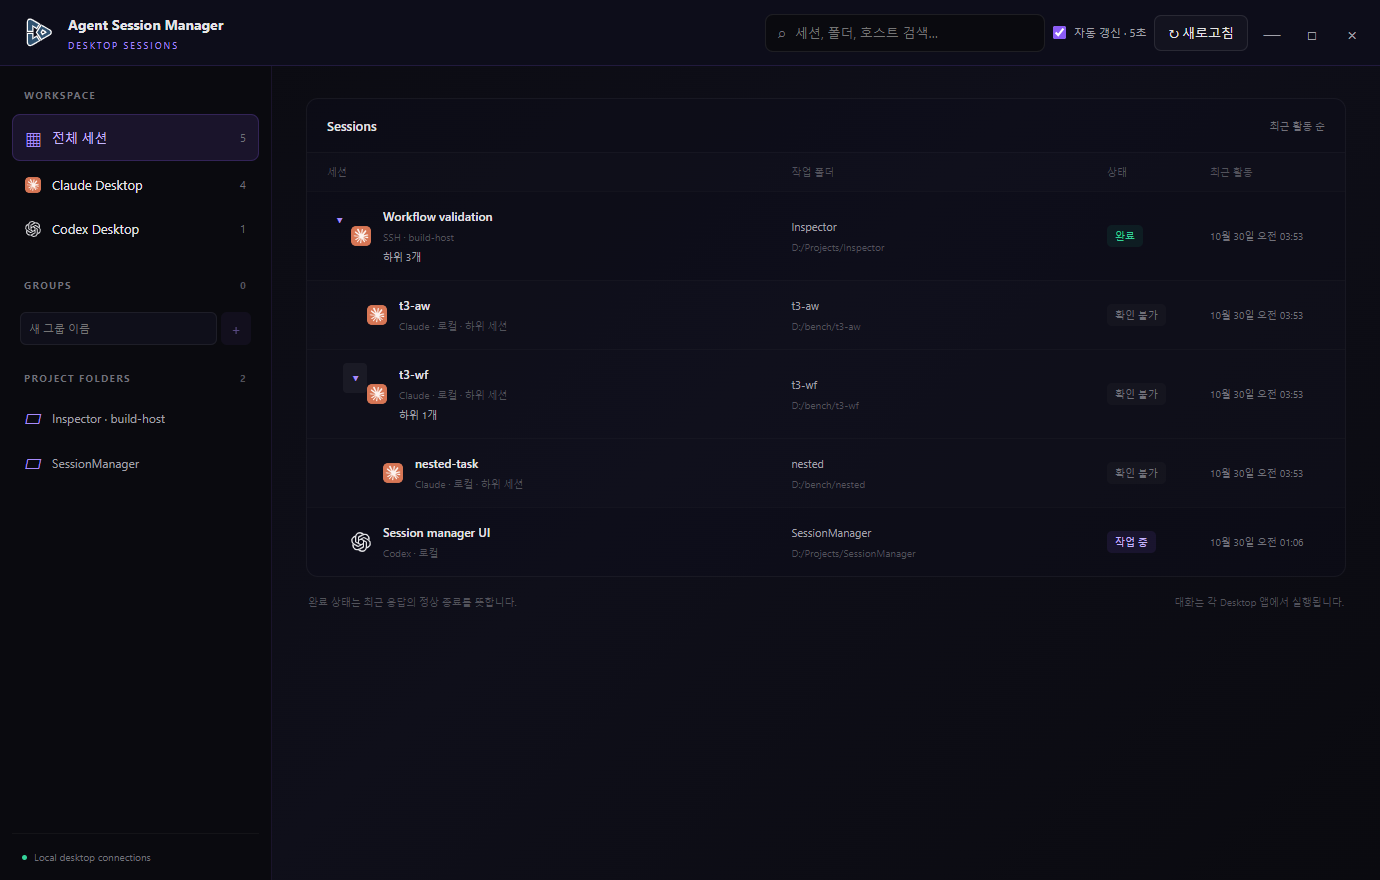
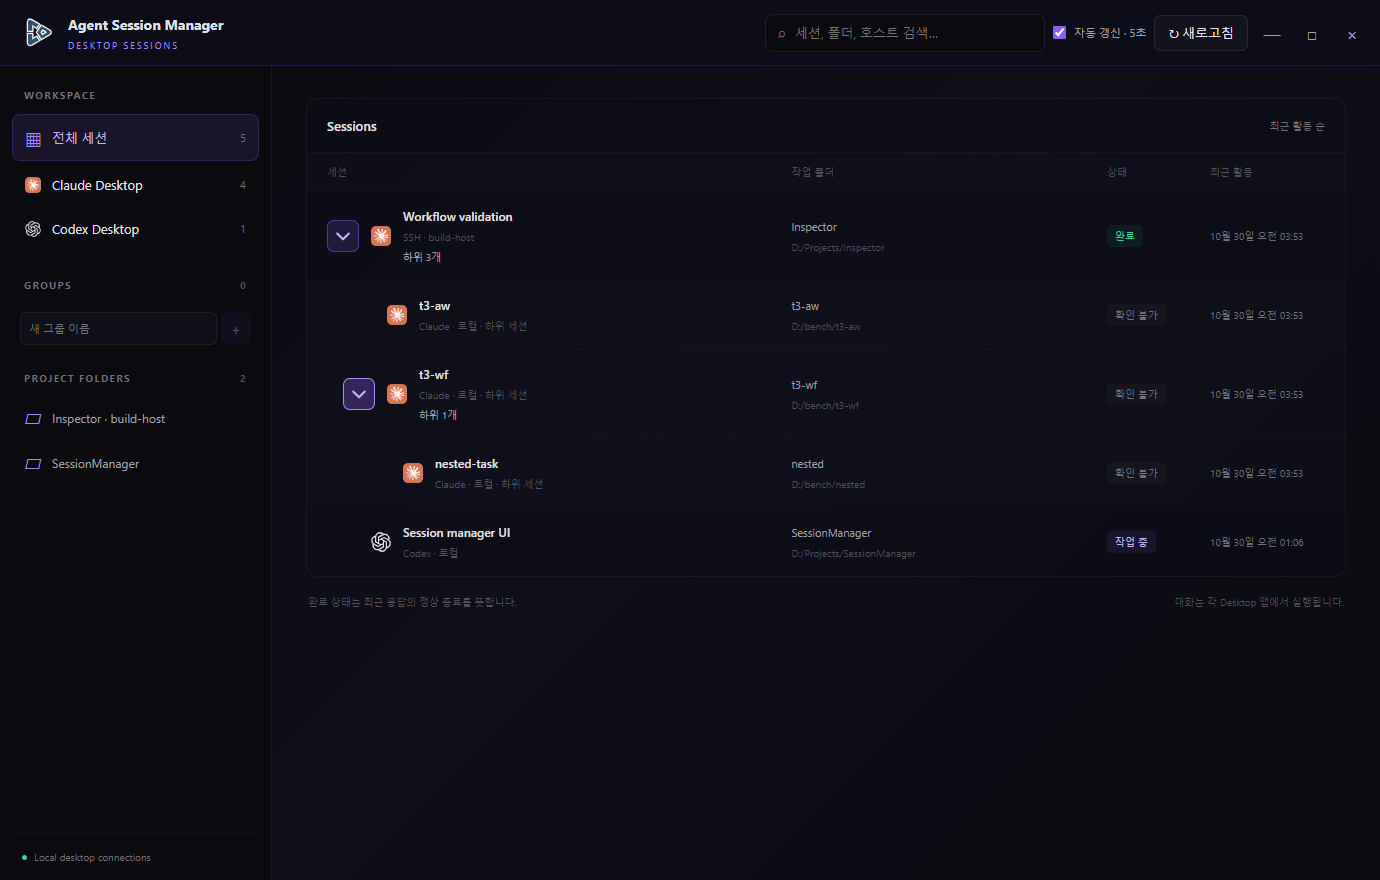
Improve child session expand button visibility and alignment

diff --git a/frontend/src/DesktopApp.svelte b/frontend/src/DesktopApp.svelte
@@ -262,7 +262,7 @@
               {@const workingChildren = row.descendants.filter(child => activity(child, now).state === 'working').length}
               <div class="session-entry" class:child-entry={row.depth > 0} data-session-key={session.key} style={`--tree-indent:${Math.min(row.depth, 4) * 16}px`}>
                 {#if row.descendants.length}
-                  <button class="tree-toggle" aria-label={`${row.expanded ? '하위 세션 접기' : '하위 세션 펼치기'}: ${session.title}`} aria-expanded={row.expanded} on:click={() => toggleChildren(session.key, row.automatic)}>{row.expanded ? '▾' : '▸'}</button>
+                  <button class="tree-toggle" aria-label={`${row.expanded ? '하위 세션 접기' : '하위 세션 펼치기'}: ${session.title}`} aria-expanded={row.expanded} on:click={() => toggleChildren(session.key, row.automatic)}><svg width="20" height="20" viewBox="0 0 24 24" fill="none" stroke="currentColor" stroke-width="2.5" stroke-linecap="round" stroke-linejoin="round" aria-hidden="true"><path d="m9 5 7 7-7 7" /></svg></button>
                 {/if}
                 <button class="session-row" on:click={event => { if (event.detail < 2) void openSession(session); }} on:contextmenu={event => showSessionMenu(event, session)} on:keydown={event => { if (event.key === 'ContextMenu' || (event.shiftKey && event.key === 'F10')) void showSessionMenu(event, session); }} aria-haspopup="menu" disabled={opening} title={session.title}>
                   <span class="session-title"><AgentIcon agent={session.provider} size="md" /><span><strong>{session.childName || session.title}</strong><small>{session.environment === 'ssh' ? `SSH · ${session.host}` : `${session.provider === 'codex' ? 'Codex' : 'Claude'} · 로컬`}{#if session.parentKey}{' · 하위 세션'}{/if}{#if row.node.parentUnavailable}<span class="missing-parent">{' · 부모 대화 확인 불가'}</span>{/if}</small>{#if row.descendants.length}<small class="hierarchy-summary" title="현재 필터에 포함된 하위 세션">하위 {row.descendants.length}개{#if workingChildren}<span class="descendant-working">{' · '}{workingChildren}개 작업 중</span>{/if}</small>{/if}</span></span>
@@ -301,7 +301,7 @@
   .session-panel { border:1px solid #ffffff0c; border-radius:12px; overflow:hidden; background:rgba(var(--bg-base-rgb),.42); } .panel-heading { display:flex; justify-content:space-between; align-items:center; padding:18px 20px; border-bottom:1px solid #ffffff0a; } .panel-heading h2 { font-size:13px; font-weight:600; } .panel-heading > span { font-size:10px; color:#71717a; }
   .table-heading,.session-row { display:grid; grid-template-columns:minmax(210px,1.5fr) minmax(130px,1fr) 85px 115px; gap:18px; align-items:center; } .table-heading { padding:12px 20px; color:#52525b; font-size:10px; background:#ffffff02; } .session-row { width:100%; background:none; border:0; border-top:1px solid #ffffff06; text-align:left; padding:16px 20px; } .session-row:hover { background:rgba(var(--accent-rgb),.07); } .session-title { min-width:0; display:flex; align-items:center; gap:12px; } .session-title > span { min-width:0; } .session-title strong { display:block; font-size:12px; font-weight:500; white-space:nowrap; overflow:hidden; text-overflow:ellipsis; } .session-title small,.session-path small { display:block; color:#52525b; font-size:10px; margin-top:6px; white-space:nowrap; overflow:hidden; text-overflow:ellipsis; } .session-path { min-width:0; color:#a1a1aa; font-size:11px; overflow:hidden; text-overflow:ellipsis; white-space:nowrap; } time { font-size:10px; color:#71717a; }
   .badge { display:inline-flex; justify-content:center; width:fit-content; gap:5px; font-size:10px; padding:4px 8px; border-radius:5px; background:#ffffff06; color:#71717a; white-space:nowrap; } .badge.working { background:#8b5cf61a; color:#c4b5fd; } .badge.completed { background:#10b98118; color:#34d399; } .badge.interrupted { background:#f59e0b18; color:#fbbf24; } .badge.idle { color:#a1a1aa; } .badge.error,.badge.refused { color:#fca5a5; background:#ef444418; }
-  .session-entry { position:relative; } .session-entry .session-title { padding-left:calc(24px + var(--tree-indent)); } .child-entry { background:#ffffff02; } .tree-toggle { position:absolute; z-index:1; left:calc(20px + var(--tree-indent)); top:14px; width:24px; height:30px; padding:0; border:0; border-radius:4px; color:var(--accent-light); background:none; font-size:16px; } .tree-toggle:hover { background:#ffffff0c; } .session-title .hierarchy-summary { color:#a1a1aa; } .session-title .descendant-working { color:#c4b5fd; } .missing-parent { color:#fbbf24; } .parent-link { margin-top:14px; color:#a1a1aa; font-size:12px; } .parent-link button { border:0; background:none; color:var(--accent-light); text-align:left; }
+  .session-entry { position:relative; } .session-entry .session-title { padding-left:calc(44px + var(--tree-indent)); } .child-entry { background:#ffffff02; } .tree-toggle { position:absolute; z-index:1; left:calc(20px + var(--tree-indent)); top:50%; transform:translateY(-50%); display:flex; align-items:center; justify-content:center; width:32px; height:32px; padding:0; border:1px solid rgba(var(--accent-rgb),.45); border-radius:7px; color:var(--accent-lighter); background:rgba(var(--accent-rgb),.16); } .tree-toggle:hover { background:rgba(var(--accent-rgb),.3); border-color:var(--accent-light); } .tree-toggle:focus-visible { outline:2px solid var(--accent-light); outline-offset:2px; } .tree-toggle[aria-expanded=true] svg { transform:rotate(90deg); } .session-title .hierarchy-summary { color:#a1a1aa; } .session-title .descendant-working { color:#c4b5fd; } .missing-parent { color:#fbbf24; } .parent-link { margin-top:14px; color:#a1a1aa; font-size:12px; } .parent-link button { border:0; background:none; color:var(--accent-light); text-align:left; }
   .banner { padding:12px 16px; border-radius:8px; margin-bottom:18px; font-size:12px; white-space:pre-wrap; overflow-wrap:anywhere; } .banner.error { background:#ef444413; border:1px solid #ef44442c; color:#fca5a5; } .banner.success { background:#10b98112; border:1px solid #10b98125; color:#6ee7b7; } .banner.warning { color:#fbbf24; background:#f59e0b0c; border:1px solid #f59e0b20; } .warning p { margin-top:8px; font-size:11px; }
   .back { border:0; background:none; color:#a1a1aa; font-size:12px; padding:0 0 18px; } .detail-card { padding:28px; border:1px solid rgba(var(--accent-rgb),.18); border-radius:12px; background:linear-gradient(145deg,var(--bg-base),var(--bg-sunken)); } .detail-heading { display:flex; align-items:center; gap:12px; margin-bottom:18px; } .provider { color:#a1a1aa; font-size:12px; } .detail-heading .badge { margin-left:auto; } .detail-card h2 { font-size:22px; line-height:1.5; overflow-wrap:anywhere; white-space:pre-wrap; } dl { display:grid; grid-template-columns:100px 1fr; row-gap:20px; margin-top:28px; } dt { color:#71717a; font-size:11px; } dd { color:#d4d4d8; font-size:12px; overflow-wrap:anywhere; } .mono { font-family:monospace; color:#a1a1aa; } .primary { border:1px solid rgba(var(--accent-rgb),.6); border-radius:8px; background:var(--accent); color:var(--accent-ink); padding:12px 18px; } .open-button { margin-top:28px; display:flex; align-items:center; gap:28px; } .open-button span { font-size:18px; } .group-assignment { display:flex; align-items:center; gap:12px; border-top:1px solid #ffffff0a; padding-top:24px; margin-top:28px; } .group-assignment label { color:#71717a; } .group-assignment select { min-width:160px; font:inherit; } .membership { display:flex; flex-wrap:wrap; gap:8px; margin-top:16px; } .membership button { border:1px solid rgba(var(--accent-rgb),.2); background:rgba(var(--accent-rgb),.1); color:var(--accent-lighter); font-size:11px; padding:5px 9px; border-radius:5px; }
   .empty { padding:60px 20px; text-align:center; color:#71717a; } .empty button { display:block; margin:16px auto 0; background:none; border:0; color:var(--accent-light); } footer { display:flex; justify-content:space-between; gap:16px; color:#52525b; font-size:10px; padding:18px 2px; }

diff --git a/docs/ai/tasks/session-expand-button/HANDOFF.md b/docs/ai/tasks/session-expand-button/HANDOFF.md
@@ -1,0 +1,39 @@
+# 하위 세션 확장 버튼 개선
+
+- 날짜: 2026-10-30
+- 상태: 완료
+- 스킬: software-change-workflow
+- 위험도: 낮음. 기존 버튼의 위치·크기·시각 표현만 바꾸는 국소적 수정이다.
+
+## 요청과 범위
+
+- 사용자 요청: 하위 세션 확장 버튼이 가운데에 있지 않고 작으며 눈에 띄지 않는 문제 개선.
+- 가정: 가운데는 각 세션 행 안의 세로 중앙을 의미한다.
+- 제품 수정 범위: `frontend/src/DesktopApp.svelte`의 확장 버튼 마크업과 해당 CSS.
+- 진행: 현재 배치 확인 → 버튼과 여백 조정 → 기존 검사·브라우저 회귀·빌드·화면 확인 → scoped commit.
+
+## 변경
+
+- 고정 `top:14px` 대신 행 높이를 기준으로 세로 중앙에 배치한다.
+- 클릭 영역을 24×30px에서 32×32px로 확대한다.
+- 작은 문자 화살표를 20×20px SVG 화살표로 교체한다. 펼쳤을 때 아래를 가리킨다.
+- 보라색 배경·테두리·밝은 아이콘, hover 강조와 키보드 focus-visible 테두리를 추가한다.
+- 제목 앞 여백을 늘려 버튼과 제공자 아이콘 사이에 12px 간격을 확보한다. 같은 깊이의 행은 동일하게 정렬한다.
+- 기존 aria-label, aria-expanded, 클릭 처리, 검색·자동 펼침 및 하위 세션 열기 동작을 유지한다.
+- 기존 브라우저 검증에서 생성하는 화면 캡처 6개를 새 배치로 갱신했다.
+
+## 검증과 자체 검토
+
+- `npm run check`: 오류 0개, 기존 경고 111개/29개 파일. 이전 작업 기록과 같은 경고 수다.
+- `npx playwright test --config playwright.desktop.config.mjs`: 24개 모두 통과. 계층 펼침·접기·중첩 검색·갱신 유지·그룹·세션 열기·최소 창 크기 포함.
+- `scripts/build-desktop.ps1`: 성공. `desktop/build/bin/desktop-session-manager.exe` 갱신.
+- 1380×880 및 960×640 계층 캡처를 직접 확인했다. 상위·중첩 행의 버튼이 중앙에 있으며 제공자 아이콘·텍스트와 겹치지 않는다.
+- `git diff --check`: 통과.
+- 자체 검토: 제품 변경은 버튼 마크업과 CSS에 한정했다. 의존성·백엔드·트리 데이터 처리 변경 없음. 저영향 표시 수정이므로 새 영구 테스트는 추가하지 않고 기존 회귀 테스트로 검증했다.
+
+## 적용과 체크포인트
+
+- 빌드한 앱을 다시 실행하면 적용된다. 실제 Claude/Codex 대화 열기는 mock bridge로 검증했다.
+- 기존 미추적 `verification/desktop-replacement-backup/`은 변경하거나 커밋하지 않는다.
+- 이번 제품 수정·화면 캡처·본 기록만 단일 scoped commit으로 남긴다.
+- 남은 구현 작업 없음. 실제 데스크톱 창에서의 최종 사용감은 앱 재실행 후 확인 가능하다.
